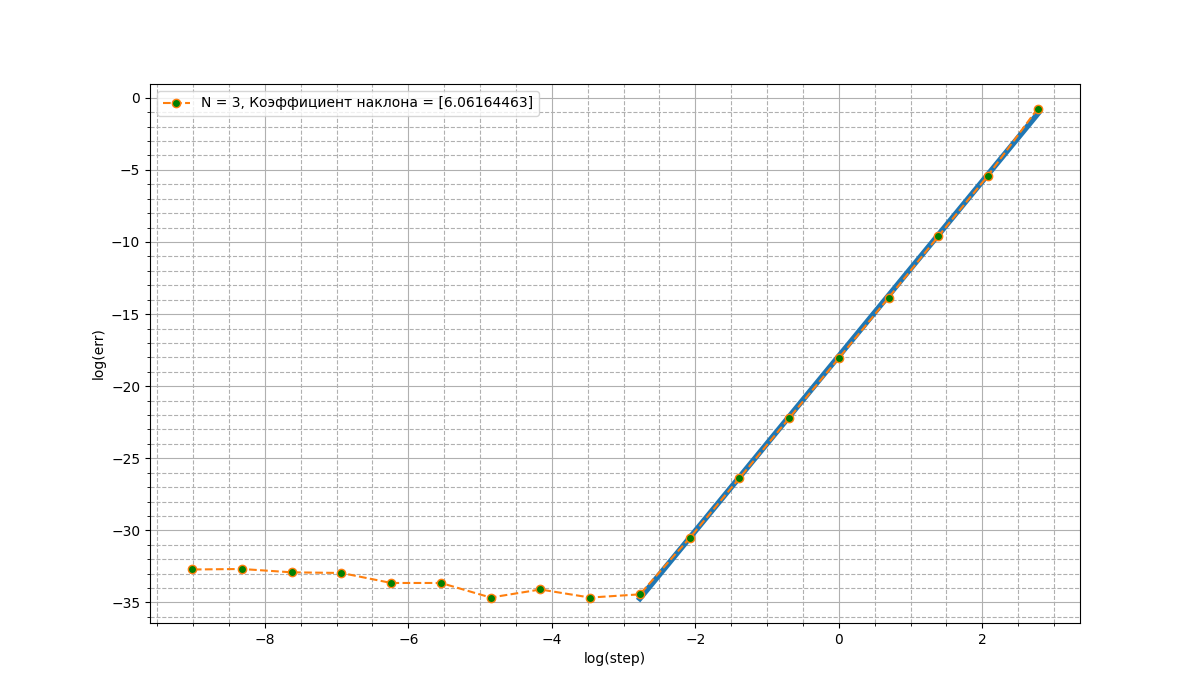
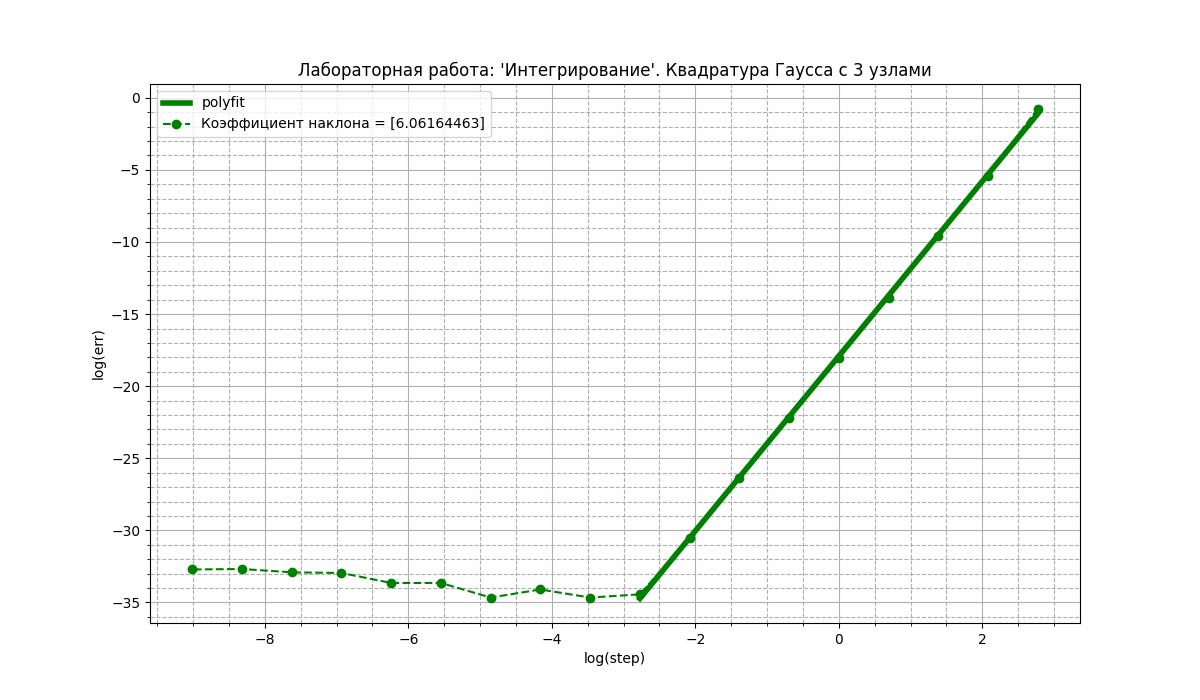
-a

diff --git a/py/Interpolant/main.py b/py/Interpolant/main.py
@@ -95,20 +95,25 @@ def grafikCheb():
         which='minor',
         linestyle='--'
     )
-    coef1 = np.polyfit(np.log(h[:-4]), np.log(line1[:-4]), 1)
-    coef2 = np.polyfit(np.log(h[:-8]), np.log(line2[:-8]), 1)
-    coef3 = np.polyfit(np.log(h[:-11]), np.log(line3[:-11]), 1)
-    plt.plot(np.log(h), np.log(line1), linestyle='dashed', marker='o', markerfacecolor='green',
+    coef1 = np.polyfit(np.log10(h[:-4]), np.log10(line1[:-4]), 1)
+    coef2 = np.polyfit(np.log10(h[:-8]), np.log10(line2[:-8]), 1)
+    coef3 = np.polyfit(np.log10(h[:-11]), np.log10(line3[:-11]), 1)
+    plt.plot(np.log10(h), np.log10(line1), linestyle='dashed', marker='o', markerfacecolor='green', color="green",
              label=f'N = 3,  Коэффициент наклона = {coef1[0]}')
-    plt.plot(np.log(h), np.log(line2), linestyle='dashed', marker='o', markerfacecolor='blue',
+    plt.plot(np.log10(h), np.log10(line2), linestyle='dashed', marker='o', markerfacecolor='blue', color="blue",
              label=f'N = 4, Коэффициент наклона = {coef2[0]}')
-    plt.plot(np.log(h),np.log(line3), linestyle='dashed', marker='o', markerfacecolor='red',
+
+    plt.plot(np.log10(h), np.log10(line3), linestyle='dashed', marker='o', markerfacecolor='red', color="red",
              label=f'N = 5, Коэффициент наклона = {coef3[0]}')
+    plt.plot(np.log10(h[:-4]), np.log10(h[:-4]) * coef1[0] + coef1[1], color="green", label="polyfit N = 3")
+    plt.plot(np.log10(h[:-8]), np.log10(h[:-8]) * coef2[0] + coef2[1], color="blue", label="polyfit N = 4")
+    plt.plot(np.log10(h[:-11]), np.log10(h[:-11]) * coef3[0] + coef3[1], color="red", label="polyfit N = 5")
+
     # plt.xlim([0,2])
     # plt.ylim([0,1])
-    plt.xlabel("length")
-    plt.ylabel(r"err")
-    plt.title('Чебышевские узлы')
+    plt.xlabel(r"$\log(length)")
+    plt.ylabel(r"$\log(err)$")
+    plt.title("Лабораторная работа: 'Интерполянт'. Чебышевские узлы")
     plt.legend()
     plt.savefig("basicChebLogLog.png")
     plt.show()
@@ -141,17 +146,22 @@ def grafikBase():
     coef1 = np.polyfit(np.log10(h[:-4]), np.log10(line1[:-4]), 1)
     coef2 = np.polyfit(np.log10(h[:-8]), np.log10(line2[:-8]), 1)
     coef3 = np.polyfit(np.log10(h[:-11]), np.log10(line3[:-11]), 1)
-    plt.plot(np.log10(h), np.log10(line1), linestyle='dashed', marker='o', markerfacecolor='green',
+    plt.plot(np.log10(h), np.log10(line1), linestyle='dashed', marker='o', markerfacecolor='green', color = "green",
              label=f'N = 3,  Коэффициент наклона = {coef1[0]}')
-    plt.plot(np.log10(h), np.log10(line2), linestyle='dashed', marker='o', markerfacecolor='blue',
+    plt.plot(np.log10(h), np.log10(line2), linestyle='dashed', marker='o', markerfacecolor='blue', color = "blue",
              label=f'N = 4, Коэффициент наклона = {coef2[0]}')
-    plt.plot(np.log10(h),np.log10(line3), linestyle='dashed', marker='o', markerfacecolor='red',
+
+    plt.plot(np.log10(h),np.log10(line3), linestyle='dashed', marker='o', markerfacecolor='red', color = "red",
              label=f'N = 5, Коэффициент наклона = {coef3[0]}')
+    plt.plot(np.log10(h[:-4]), np.log10(h[:-4])*coef1[0] + coef1[1],color = "green", label ="polyfit N = 3")
+    plt.plot(np.log10(h[:-8]), np.log10(h[:-8])*coef2[0] + coef2[1],color = "blue", label ="polyfit N = 4")
+    plt.plot(np.log10(h[:-11]), np.log10(h[:-11])*coef3[0] + coef3[1],color = "red", label ="polyfit N = 5")
+
     # plt.xlim([0,2])
     # plt.ylim([0,1])
-    plt.xlabel("length")
-    plt.ylabel(r"err")
-    plt.title('Равномерные узлы')
+    plt.xlabel(r"$\log(length)")
+    plt.ylabel(r"$\log(err)$")
+    plt.title("Лабораторная работа: 'Интерполянт'. Равномерные узлы")
     plt.legend()
     plt.savefig("basicLogLog.png")
     plt.show()

diff --git a/tests/SplineTests.cpp b/tests/SplineTests.cpp
@@ -39,64 +39,64 @@ TEST(SplineTests, MainTest){
     std::ofstream fileOut;
     fileOut.open(py_path + "/Spline/err.txt");
 
-    std::array<double, 5> values5{};
-    std::array<double, 10> values10{};
-    std::array<double, 20> values20{};
-    std::array<double, 40> values40{};
-    std::array<double, 80> values80{};
-    std::array<double, 160> values160{};
+    std::array<double, 6> values5{};
+    std::array<double, 11> values10{};
+    std::array<double, 21> values20{};
+    std::array<double, 41> values40{};
+    std::array<double, 81> values80{};
+    std::array<double, 161> values160{};
 
-    std::array<double, 5> points5{};
-    std::array<double, 10> points10{};
-    std::array<double, 20> points20{};
-    std::array<double, 40> points40{};
-    std::array<double, 80> points80{};
-    std::array<double, 160> points160{};
+    std::array<double, 6> points5{};
+    std::array<double, 11> points10{};
+    std::array<double, 21> points20{};
+    std::array<double, 41> points40{};
+    std::array<double, 81> points80{};
+    std::array<double, 161> points160{};
     constexpr std::array iter{5, 10, 20, 40, 80, 160};
     double start = 0;
     double end = 10;
 
     double dx = (end - start)/double(iter[0]);
-    for(std::size_t j = 0; j < iter[0]; j++){
+    for(std::size_t j = 0; j <= iter[0]; j++){
         points5[j] = double(j) * dx;
         values5[j] = std::exp(points5[j]);
     }
 
     dx = (end - start)/double(iter[1]);
-    for(std::size_t j = 0; j < iter[1]; j++){
+    for(std::size_t j = 0; j <= iter[1]; j++){
         points10[j] = double(j) * dx;
         values10[j] = std::exp(points10[j]);
     }
 
     dx = (end - start)/double(iter[2]);
-    for(std::size_t j = 0; j < iter[2]; j++){
+    for(std::size_t j = 0; j <= iter[2]; j++){
         points20[j] = double(j) * dx;
         values20[j] = std::exp(points20[j]);
     }
 
     dx = (end - start)/double(iter[3]);
-    for(std::size_t j = 0; j < iter[3]; j++){
+    for(std::size_t j = 0; j <= iter[3]; j++){
         points40[j] = double(j) * dx;
         values40[j] = std::exp(points40[j]);
     }
 
     dx = (end - start)/double(iter[4]);
-    for(std::size_t j = 0; j < iter[4]; j++){
+    for(std::size_t j = 0; j <= iter[4]; j++){
         points80[j] = double(j) * dx;
         values80[j] = std::exp(points80[j]);
     }
 
     dx = (end - start)/double(iter[5]);
-    for(std::size_t j = 0; j < iter[5]; j++){
+    for(std::size_t j = 0; j <= iter[5]; j++){
         points160[j] = double(j) * dx;
         values160[j] = std::exp(points160[j]);
     }
-    CubicSpline<double, double, 4> s5{points5, values5};
-    CubicSpline<double, double, 9> s10{points10, values10};
-    CubicSpline<double, double, 19> s20{points20, values20};
-    CubicSpline<double, double, 39> s40{points40, values40};
-    CubicSpline<double, double, 79> s80{points80, values80};
-    CubicSpline<double, double, 159> s160{points160, values160};
+    CubicSpline<double, double, 5> s5{points5, values5};
+    CubicSpline<double, double, 10> s10{points10, values10};
+    CubicSpline<double, double, 20> s20{points20, values20};
+    CubicSpline<double, double, 40> s40{points40, values40};
+    CubicSpline<double, double, 80> s80{points80, values80};
+    CubicSpline<double, double, 160> s160{points160, values160};
 
     std::size_t N = 1000;
     double maxx = -1.;

diff --git a/py/NumDiff/main.py b/py/NumDiff/main.py
@@ -30,16 +30,18 @@ def grafik():
         linestyle='--'
     )
 
-    plt.plot(np.log10(h), np.log10(line1), linestyle='dashed', marker='o', markerfacecolor='green',
+    plt.plot(np.log10(h), np.log10(line1), linestyle='dashed', marker='o', markerfacecolor='green',color='green',
              label=f'N = 3, Коэффициент наклона = {coef1[0]}')
-    plt.plot(np.log10(h), np.log10(line2), linestyle='dashed', marker='o', markerfacecolor='blue',
+    plt.plot(np.log10(h), np.log10(line2), linestyle='dashed', marker='o', markerfacecolor='blue',color='blue',
              label=f'N = 4, Коэффициент наклона = {coef2[0]}')
-    plt.plot(np.log10(h), np.log10(line3), linestyle='dashed', marker='o', markerfacecolor='red',
+    plt.plot(np.log10(h), np.log10(line3), linestyle='dashed', marker='o', markerfacecolor='red', color='red',
              label=f'N = 5, Коэффициент наклона = {coef3[0]}')
-
-    plt.xlabel("log(step)")
-    plt.ylabel(r"log(err)")
-    plt.title("Base")
+    plt.plot(np.log10(h[:-4]), coef1[0] * np.log10(h[:-4]) + coef1[1], label='polyfit N = 3', color='green')
+    plt.plot(np.log10(h[:-6]), coef2[0] * np.log10(h[:-6]) + coef2[1], label='polyfit N = 4', color='blue')
+    plt.plot(np.log10(h[:-8]), coef3[0] * np.log10(h[:-8]) + coef3[1], label='polyfit N = 5', color='red')
+    plt.xlabel(r"$\log(step)$")
+    plt.ylabel(r"$\log(err)$")
+    plt.title("Лабораторная работа: 'Численное дифференцирование'. Базовый уровень")
     plt.legend()
     plt.savefig("basicSecond.png")
     plt.show()
@@ -82,9 +84,9 @@ def grafik2():
     plt.plot(np.log10(h[:-4]), coef1[0] * np.log10(h[:-4])+ coef1[1], label = 'polyfit N = 3', color = 'green')
     plt.plot(np.log10(h[:-6]), coef2[0] * np.log10(h[:-6]) + coef2[1], label = 'polyfit N = 4', color = 'blue')
     plt.plot(np.log10(h[:-8]), coef3[0] * np.log10(h[:-8]) + coef3[1], label = 'polyfit N = 5', color = 'red')
-    plt.xlabel("log(step)")
-    plt.ylabel(r"log(err)")
-    plt.title("Advanced")
+    plt.xlabel(r"$\log(step)$")
+    plt.ylabel(r"$\log(err)$")
+    plt.title("Лабораторная работа: 'Численное дифференцирование'. Повышенный уровень")
     plt.legend()
     plt.savefig("advanced.png")
     plt.show()
@@ -104,4 +106,4 @@ def multiiplyMatrix():
     print(np.dot(np.linalg.inv(a1), b1))
 
 if __name__ == '__main__':
-    grafik2()
+    grafik()

diff --git a/py/Integration/main.py b/py/Integration/main.py
@@ -2,7 +2,7 @@ import matplotlib.pyplot as plt
 import numpy as np
 
 
-def grafik(x, y, k, filename):
+def grafik(x, y, k, filename, title):
     # i = 0
     # for j in range(3, len(x)):
     #     coef1 = np.polyfit(np.log(x[0:j]), np.log(y[0:j]), 1)
@@ -22,9 +22,9 @@ def grafik(x, y, k, filename):
         which='minor',
         linestyle='--'
     )
-    plt.plot(np.log(x[0:k]), coef1[0] * np.log(x[0:k]) +coef1[1],lw = 4 )
-    plt.plot(np.log(x), np.log(y), linestyle='dashed', marker='o', markerfacecolor='green',
-             label=f'N = 3, Коэффициент наклона = {coef1[0]}')
+    plt.plot(np.log(x[0:k]), coef1[0] * np.log(x[0:k]) +coef1[1],lw = 4, color = 'green', label = "polyfit")
+    plt.plot(np.log(x), np.log(y), linestyle='dashed', marker='o', markerfacecolor='green', color = 'green',
+             label=f'Коэффициент наклона = {coef1[0]}')
 
     # plt.loglog(h, line1, linestyle='dashed', marker='o', markerfacecolor='green',
     #          label=f'N = 3, Коэффициент наклона = {coef1[0]}')
@@ -36,7 +36,7 @@ def grafik(x, y, k, filename):
     # plt.ylim([0, 1])
     plt.xlabel("log(step)")
     plt.ylabel(r"log(err)")
-    # plt.title('Равномерные узлы')
+    plt.title(title)
     plt.legend()
     plt.savefig(f"{filename.split('.')[0]}.png")
     plt.show()
@@ -51,11 +51,13 @@ def readData(filename):
 if __name__ == '__main__':
     filename1 = "errN3.txt"
     filename2 = "errN5.txt"
+    title1 = "Лабораторная работа: 'Интегрирование'. Квадратура Гаусса с 3 узлами"
+    title2 = "Лабораторная работа: 'Интегрирование'. Квадратура Гаусса с 5 узлами"
     data1 = readData(filename1)
     data2 = readData(filename2)
     h = []
     h.append(16.)
     for i in range(len(data1) - 1):
         h.append(h[-1] * 0.5)
-    grafik(h, np.array(data1, dtype=float), 9,  filename1)
-    grafik(h, np.array(data2, dtype=float), 5, filename2)
+    grafik(h, np.array(data1, dtype=float), 9,  filename1, title1)
+    grafik(h, np.array(data2, dtype=float), 5, filename2, title2)

diff --git a/py/Spline/main.py b/py/Spline/main.py
@@ -22,10 +22,10 @@ def grafik(x, y, k, filename):
         which='minor',
         linestyle='--'
     )
-    plt.plot(np.log(x[0:k]), coef1[0] * np.log(x[0:k]) +coef1[1],lw = 4 )
-    plt.plot(np.log(x), np.log(y), linestyle='dashed', marker='o', markerfacecolor='green',
-             label=f'N = 3, Коэффициент наклона = {coef1[0]}')
 
+    plt.plot(np.log(x), np.log(y), linestyle='dashed', marker='o', markerfacecolor='green', color = 'green',
+             label=f'N = 3, Коэффициент наклона = {coef1[0]}')
+    plt.plot(np.log(x[0:k]), coef1[0] * np.log(x[0:k]) + coef1[1], lw=4, color = 'green', label = 'green')
     # plt.loglog(h, line1, linestyle='dashed', marker='o', markerfacecolor='green',
     #          label=f'N = 3, Коэффициент наклона = {coef1[0]}')
     # plt.loglog(h, line2, linestyle='dashed', marker='o', markerfacecolor='green',
@@ -34,9 +34,9 @@ def grafik(x, y, k, filename):
     #          label=f'N = 5, Коэффициент наклона = {coef3[0]}')
     # plt.xlim([-4, 2])
     # plt.ylim([0, 1])
-    plt.xlabel("log(step)")
+    plt.xlabel("log(num of nodes)")
     plt.ylabel(r"log(err)")
-    # plt.title('Равномерные узлы')
+    plt.title(f'Лабораторная работа spline. $\log(err)(\log(nodes))$')
     plt.legend()
     plt.savefig(f"{filename.split('.')[0]}.png")
     plt.show()
